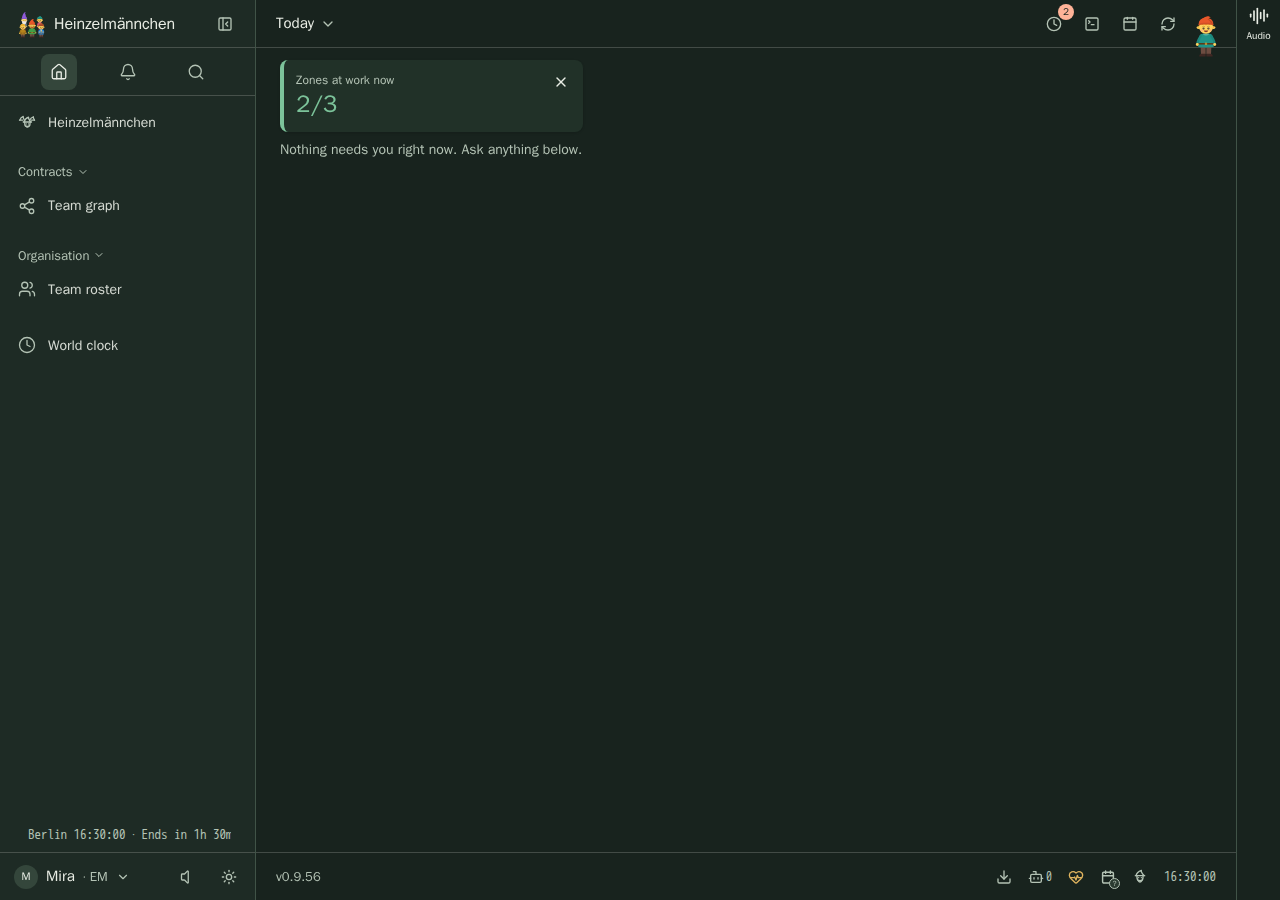
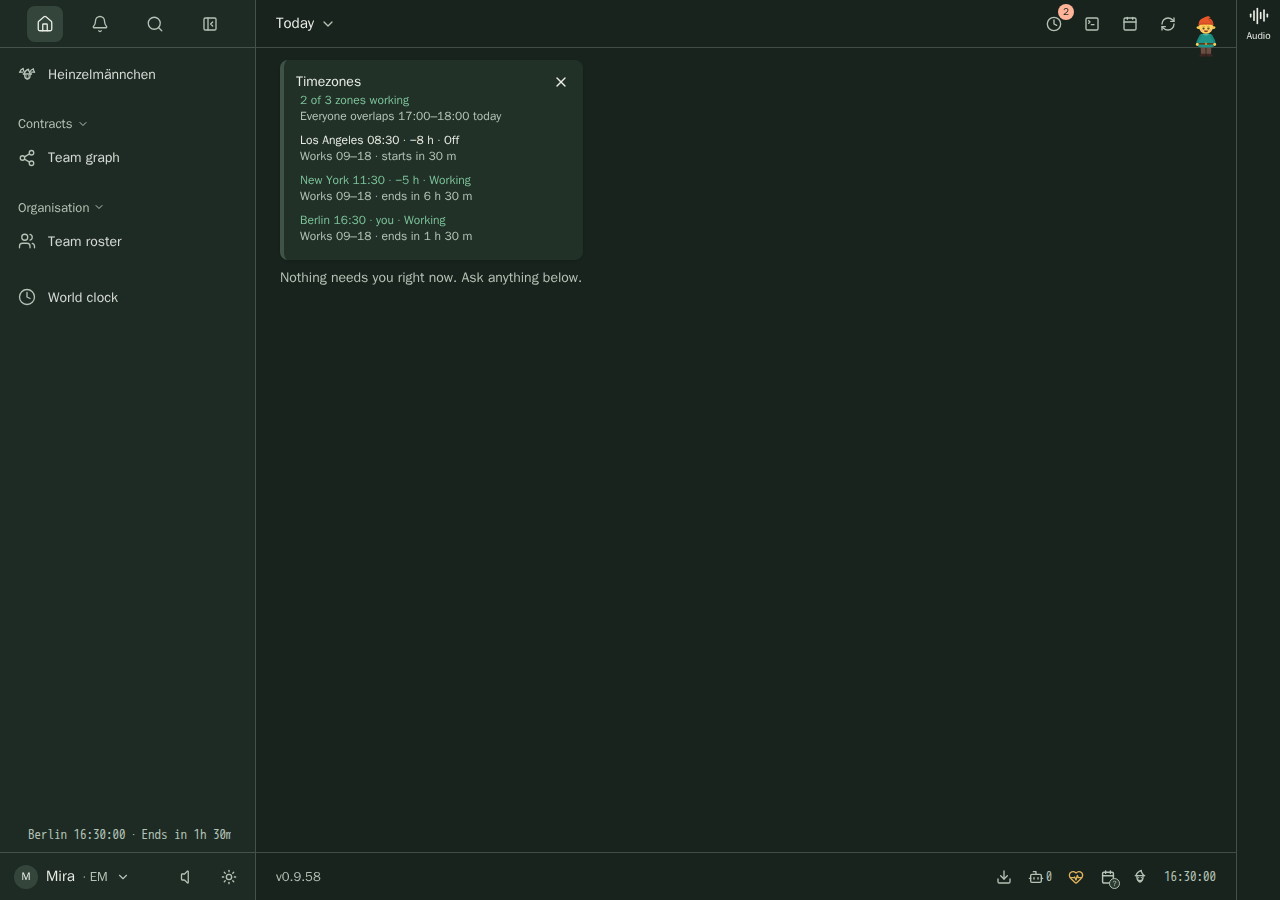
feat(clock): turn the Today widget into Timezones with common hours

diff --git a/plugins/heinzel-clock/docs/assets/screenshots/index.html b/plugins/heinzel-clock/docs/assets/screenshots/index.html
@@ -1,1 +1,1 @@
-<!doctype html><html lang="en"><meta charset="utf-8"><meta name="viewport" content="width=device-width"><title>heinzel-clock screenshots</title><style>body{font:16px/1.6 system-ui;margin:2rem;background:#faf8f3;color:#263b32}main{display:grid;grid-template-columns:repeat(auto-fit,minmax(min(100%,420px),1fr));gap:1rem}figure{margin:0;padding:1rem;background:white;border:1px solid #d8ddd3;border-radius:12px}img{width:100%;height:auto}figcaption{margin-top:.75rem}a:focus-visible{outline:3px solid #a64028}</style><h1>heinzel-clock</h1><p>Isolated demonstration profile · Core 0.9.56 · Review these captures before committing. Click an image to inspect it at full size.</p><main><figure><a href="world-clock.png"><img src="world-clock.png" alt="Find overlap across Berlin, New York and Los Angeles with the World Clock — fictional demonstration time"></a><figcaption>UI · Find overlap across Berlin, New York and Los Angeles with the World Clock — fictional demonstration time</figcaption></figure><figure><a href="team-overview.png"><img src="team-overview.png" alt="Fictional team working hours at a glance: the Today count and the primary footer clock"></a><figcaption>UI · Fictional team working hours at a glance: the Today count and the primary footer clock</figcaption></figure><figure><a href="footer-detail.png"><img src="footer-detail.png" alt="Inspect all configured time zones from the primary footer clock — fictional demonstration data"></a><figcaption>UI · Inspect all configured time zones from the primary footer clock — fictional demonstration data</figcaption></figure><figure><a href="phone-world-clock.png"><img src="phone-world-clock.png" alt="The globe and three fictional team clocks on a phone — fixed demonstration time"></a><figcaption>UI · The globe and three fictional team clocks on a phone — fixed demonstration time</figcaption></figure><figure><a href="terminal-current.png"><img src="terminal-current.png" alt="CLI: fictional demo team at 15:30 UTC: Berlin and New York are within working hours; Los Angeles starts in 30 minutes."></a><figcaption>CLI · CLI: fictional demo team at 15:30 UTC: Berlin and New York are within working hours; Los Angeles starts in 30 minutes.</figcaption></figure><figure><a href="terminal-overlap.png"><img src="terminal-overlap.png" alt="CLI preview with --at: at 16:30 UTC all three fictional demo zones are within working hours."></a><figcaption>CLI · CLI preview with --at: at 16:30 UTC all three fictional demo zones are within working hours.</figcaption></figure><figure><a href="cli-json.png"><img src="cli-json.png" alt="Structured clock data for the fictional team at the fixed demonstration time."></a><figcaption>CLI · Structured clock data for the fictional team at the fixed demonstration time.</figcaption></figure></main></html>
+<!doctype html><html lang="en"><meta charset="utf-8"><meta name="viewport" content="width=device-width"><title>heinzel-clock screenshots</title><style>body{font:16px/1.6 system-ui;margin:2rem;background:#faf8f3;color:#263b32}main{display:grid;grid-template-columns:repeat(auto-fit,minmax(min(100%,420px),1fr));gap:1rem}figure{margin:0;padding:1rem;background:white;border:1px solid #d8ddd3;border-radius:12px}img{width:100%;height:auto}figcaption{margin-top:.75rem}a:focus-visible{outline:3px solid #a64028}</style><h1>heinzel-clock</h1><p>Isolated demonstration profile · Core 0.9.58 · Review these captures before committing. Click an image to inspect it at full size.</p><main><figure><a href="world-clock.png"><img src="world-clock.png" alt="Find overlap across Berlin, New York and Los Angeles with the World Clock — fictional demonstration time"></a><figcaption>UI · Find overlap across Berlin, New York and Los Angeles with the World Clock — fictional demonstration time</figcaption></figure><figure><a href="team-overview.png"><img src="team-overview.png" alt="Fictional team working hours at a glance: the Today timezones with their common hours and the primary footer clock"></a><figcaption>UI · Fictional team working hours at a glance: the Today timezones with their common hours and the primary footer clock</figcaption></figure><figure><a href="footer-detail.png"><img src="footer-detail.png" alt="Inspect all configured time zones from the primary footer clock — fictional demonstration data"></a><figcaption>UI · Inspect all configured time zones from the primary footer clock — fictional demonstration data</figcaption></figure><figure><a href="phone-world-clock.png"><img src="phone-world-clock.png" alt="The globe and three fictional team clocks on a phone — fixed demonstration time"></a><figcaption>UI · The globe and three fictional team clocks on a phone — fixed demonstration time</figcaption></figure><figure><a href="terminal-current.png"><img src="terminal-current.png" alt="CLI: fictional demo team at 15:30 UTC: Berlin and New York are within working hours; Los Angeles starts in 30 minutes."></a><figcaption>CLI · CLI: fictional demo team at 15:30 UTC: Berlin and New York are within working hours; Los Angeles starts in 30 minutes.</figcaption></figure><figure><a href="terminal-overlap.png"><img src="terminal-overlap.png" alt="CLI preview with --at: at 16:30 UTC all three fictional demo zones are within working hours."></a><figcaption>CLI · CLI preview with --at: at 16:30 UTC all three fictional demo zones are within working hours.</figcaption></figure><figure><a href="cli-json.png"><img src="cli-json.png" alt="Structured clock data for the fictional team at the fixed demonstration time."></a><figcaption>CLI · Structured clock data for the fictional team at the fixed demonstration time.</figcaption></figure></main></html>

diff --git a/plugins/heinzel-clock/src/heinzel_clock/__init__.py b/plugins/heinzel-clock/src/heinzel_clock/__init__.py
@@ -7,7 +7,7 @@ CLI command, MCP tool, REST endpoint, configuration, validation, health reportin
 
 import warnings
 from contextlib import suppress
-from datetime import UTC, datetime
+from datetime import UTC, date, datetime, timedelta
 from pathlib import Path
 from typing import Annotated, Any, Self, cast
 from zoneinfo import ZoneInfo, available_timezones
@@ -17,8 +17,9 @@ from heinzel import (
     ConfigEditor,
     DetailLine,
     HeinzelError,
+    ListEntry,
+    ListWidget,
     LiveClock,
-    MetricWidget,
     Module,
     ModuleSettings,
     Navigate,
@@ -273,13 +274,149 @@ module.action(
 )
 
 
-@module.widget(source="clock")
-def at_work(times: list[ZoneTime]) -> MetricWidget | None:
-    """How many of the team's zones are at work now, out of all of them."""
-    if not times:
+Window = tuple[datetime, datetime]
+"""A working window in UTC: its start and its end."""
+NIGHT = (22, 6)
+"""Local hours outside work that count as night: from 22:00 to 06:00."""
+WEEK = 8
+"""How many days ahead the next common working window is looked for."""
+MAX_ROWS = 7
+"""Zone rows under the headline; more zones show six and a count of the rest."""
+PANEL = Navigate(path="/?panel=clock:world-clock")
+
+
+def _wall(zone: ZoneInfo, day: date, hour: int, *, fold: int) -> datetime:
+    """`hour` o'clock on `day` there, in UTC; 24 is the next midnight, a skipped hour starts after the gap."""
+    if hour == 24:  # noqa: PLR2004 - the end of a day
+        day, hour = day + timedelta(days=1), 0
+    return datetime(day.year, day.month, day.day, hour, tzinfo=zone, fold=fold).astimezone(UTC)
+
+
+def working_windows(zone: ZoneTime, moment: datetime) -> list[Window]:
+    """The zone's working windows, Monday to Friday local time, from the day before `moment` for a week."""
+    info = ZoneInfo(zone.zone)
+    today = moment.astimezone(info).date()
+    start, end = zone.hours
+    days = (today + timedelta(days=offset) for offset in range(-1, WEEK + 1))
+    return [
+        (_wall(info, day, start, fold=0), _wall(info, day, end, fold=1)) for day in days if day.weekday() < SATURDAY
+    ]
+
+
+def _intersect(left: list[Window], right: list[Window]) -> list[Window]:
+    return [(max(a, c), min(b, d)) for a, b in left for c, d in right if max(a, c) < min(b, d)]
+
+
+def common_hours(zones: list[ZoneTime], moment: datetime) -> Window | None:
+    """The current or next window in which every zone works, within a week; None if there is none."""
+    if not zones:
         return None
-    count = working(times)
-    return MetricWidget(label="Zones at work now", value=f"{count}/{len(times)}", tone="ok" if count else "neutral")
+    windows = working_windows(zones[0], moment)
+    for zone in zones[1:]:
+        windows = _intersect(windows, working_windows(zone, moment))
+    return next((window for window in sorted(windows) if window[1] > moment), None)
+
+
+def _span(start: datetime, end: datetime) -> str:
+    """`2 h 30 m` from `start` to `end`, rounded up to the minute."""
+    hours, minutes = divmod(-((start - end) // timedelta(minutes=1)), 60)
+    return " ".join(
+        part for part in (f"{hours} h" if hours else "", f"{minutes} m" if minutes or not hours else "") if part
+    )
+
+
+def _offset(zone: ZoneInfo, you: ZoneInfo, moment: datetime) -> str:
+    """How far the zone's clock is ahead of yours, with a minus sign when behind: `+6 h`, `+4:30 h`."""
+    difference = (moment.astimezone(zone).utcoffset() or timedelta()) - (
+        moment.astimezone(you).utcoffset() or timedelta()
+    )
+    minutes = int(difference.total_seconds()) // 60
+    sign = "+" if minutes > 0 else "\u2212" if minutes < 0 else "±"
+    hours, rest = divmod(abs(minutes), 60)
+    return f"{sign}{hours}:{rest:02d} h" if rest else f"{sign}{hours} h"
+
+
+def _when(moment: datetime, at: datetime, you: ZoneInfo) -> str:
+    """`in 2 h` within a day, otherwise the weekday and your local time: `Mon 09:00`."""
+    if at - moment < timedelta(days=1):
+        return f"in {_span(moment, at)}"
+    return at.astimezone(you).strftime("%a %H:%M")
+
+
+def _row(zone: ZoneTime, moment: datetime, you: ZoneInfo, *, primary: bool) -> ListEntry:
+    info = ZoneInfo(zone.zone)
+    local = moment.astimezone(info)
+    windows = working_windows(zone, moment)
+    active = next((window for window in windows if window[0] <= moment < window[1]), None)
+    if active:
+        state, plan = "Working", f"ends {_when(moment, active[1], you)}"
+    else:
+        night = local.hour >= NIGHT[0] or local.hour < NIGHT[1]
+        upcoming = next(start for start, _ in windows if start > moment)
+        state, plan = "Night" if night else "Off", f"starts {_when(moment, upcoming, you)}"
+    same_day = local.date() == moment.astimezone(you).date()
+    clock = local.strftime("%H:%M" if same_day else "%a %H:%M")
+    relation = "you" if primary else _offset(info, you, moment)
+    return ListEntry(
+        text=f"{city(zone.zone)} {clock} · {relation} · {state}",
+        detail=f"Works {zone.hours[0]:02d}\u2013{zone.hours[1]:02d} · {plan}",
+        tone="ok" if active else "neutral",
+        effect=PANEL,
+    )
+
+
+def _headline(zones: list[ZoneTime], moment: datetime, you: ZoneInfo) -> ListEntry:
+    rows = [_row(zone, moment, you, primary=False) for zone in zones]
+    count = sum(row.tone == "ok" for row in rows)
+    noun = "zone" if len(zones) == 1 else "zones"
+    who = "Everyone" if len(zones) > 1 else None
+    window = common_hours(zones, moment)
+    today = moment.astimezone(you).date()
+    if window and window[0] <= moment:
+        until = window[1].astimezone(you).strftime("%H:%M")
+        detail = f"{who} works until {until}" if who else f"Works until {until}"
+    elif window:
+        start, end = (edge.astimezone(you) for edge in window)
+        hours = f"{start:%H:%M}\u2013{end:%H:%M}"
+        if start.date() == today:
+            detail = f"{who} overlaps {hours} today" if who else f"Works {hours} today"
+        else:
+            detail = f"No common hours today; next {start:%a} {hours}"
+    else:
+        starts = [(start, zone) for zone in zones for start, _ in working_windows(zone, moment) if start > moment]
+        start, first = min(starts, key=lambda pair: pair[0])
+        detail = f"No common working hours; {city(first.zone)} starts {_when(moment, start, you)}"
+    return ListEntry(
+        text=f"{count} of {len(zones)} {noun} working", detail=detail, tone="ok" if count else "neutral", effect=PANEL
+    )
+
+
+def timezones(times: list[ZoneTime], moment: datetime) -> ListWidget:
+    """Who works now, when everyone overlaps, and one row per zone sorted by its UTC offset."""
+    zones = list({zone.zone: zone for zone in reversed(times)}.values())[::-1]
+    if not zones:
+        return ListWidget(
+            title="Timezones",
+            items=[
+                ListEntry(text="No time zones yet", detail="Add your team's zones in the World clock", effect=PANEL)
+            ],
+        )
+    you = ZoneInfo(zones[0].zone)
+    order = sorted(
+        range(len(zones)),
+        key=lambda index: (moment.astimezone(ZoneInfo(zones[index].zone)).utcoffset() or timedelta(), index),
+    )
+    rows = [_row(zones[index], moment, you, primary=index == 0) for index in order]
+    if len(rows) > MAX_ROWS:
+        rest = len(rows) - MAX_ROWS + 1
+        rows = [*rows[: MAX_ROWS - 1], ListEntry(text=f"+{rest} more zones in the World clock", effect=PANEL)]
+    return ListWidget(title="Timezones", items=[_headline(zones, moment, you), *rows])
+
+
+@module.widget(source="clock")
+def at_work(times: list[ZoneTime]) -> ListWidget:
+    """The Today widget "Timezones": who works now, the next common hours and every zone's time."""
+    return timezones(times, _now())
 
 
 @module.health

diff --git a/plugins/heinzel-clock/tests/timezones_test.py b/plugins/heinzel-clock/tests/timezones_test.py
@@ -1,0 +1,120 @@
+from datetime import UTC, datetime
+
+import pytest
+from heinzel import ListEntry, ListWidget, Navigate
+
+from heinzel_clock import ZoneTime, common_hours, timezones, working_windows
+
+pytestmark = pytest.mark.unit
+
+PANEL = Navigate(path="/?panel=clock:world-clock")
+TEAM = [
+    ZoneTime(zone="Europe/Berlin", time="", hours=(9, 18), working=False, primary=True),
+    ZoneTime(zone="America/New_York", time="", hours=(9, 18), working=False),
+    ZoneTime(zone="America/Los_Angeles", time="", hours=(9, 18), working=False),
+]
+
+
+def at(text: str) -> datetime:
+    return datetime.fromisoformat(text).astimezone(UTC)
+
+
+def lines(widget: ListWidget) -> list[tuple[str, str | None]]:
+    return [(item.text, item.detail) for item in widget.items]
+
+
+def test_the_widget_is_titled_timezones_and_says_who_works_and_when_everyone_overlaps():
+    widget = timezones(TEAM, at("2026-10-26T15:30:00Z"))
+    assert widget.title == "Timezones"
+    assert lines(widget) == [
+        ("2 of 3 zones working", "Everyone overlaps 17:00\u201318:00 today"),
+        ("Los Angeles 08:30 · \u22128 h · Off", "Works 09\u201318 · starts in 30 m"),
+        ("New York 11:30 · \u22125 h · Working", "Works 09\u201318 · ends in 6 h 30 m"),
+        ("Berlin 16:30 · you · Working", "Works 09\u201318 · ends in 1 h 30 m"),
+    ]
+    assert [item.tone for item in widget.items] == ["ok", "neutral", "ok", "ok"]
+    assert all(item.effect == PANEL for item in widget.items)
+
+
+def test_the_headline_says_until_when_everyone_works_while_they_overlap():
+    widget = timezones(TEAM, at("2026-10-26T16:15:00Z"))
+    assert lines(widget)[0] == ("3 of 3 zones working", "Everyone works until 18:00")
+
+
+def test_the_overlap_follows_each_zones_daylight_saving_time():
+    pair = TEAM[:2]
+    summer = common_hours(pair, at("2026-10-27T06:00:00Z"))
+    winter = common_hours(pair, at("2026-11-03T06:00:00Z"))
+    assert summer == (at("2026-10-27T13:00:00Z"), at("2026-10-27T17:00:00Z"))
+    assert winter == (at("2026-11-03T14:00:00Z"), at("2026-11-03T17:00:00Z"))
+    assert lines(timezones(pair, at("2026-11-03T06:00:00Z")))[0] == (
+        "0 of 2 zones working",
+        "Everyone overlaps 15:00\u201318:00 today",
+    )
+
+
+def test_a_working_day_that_starts_in_a_skipped_hour_starts_after_the_gap():
+    cairo = ZoneTime(zone="Africa/Cairo", time="", hours=(0, 6), working=False)
+    windows = working_windows(cairo, at("2026-04-23T12:00:00Z"))
+    assert (at("2026-04-23T22:00:00Z"), at("2026-04-24T03:00:00Z")) in windows
+
+
+def test_the_weekend_is_off_and_the_next_overlap_names_its_day():
+    widget = timezones(TEAM[:2], at("2026-10-31T12:00:00Z"))
+    assert lines(widget) == [
+        ("0 of 2 zones working", "No common hours today; next Mon 15:00\u201318:00"),
+        ("New York 08:00 · \u22125 h · Off", "Works 09\u201318 · starts Mon 15:00"),
+        ("Berlin 13:00 · you · Off", "Works 09\u201318 · starts Mon 09:00"),
+    ]
+
+
+def test_without_any_overlap_this_week_the_headline_names_the_next_start():
+    widget = timezones(TEAM, at("2026-11-02T06:00:00Z"))
+    assert common_hours(TEAM, at("2026-11-02T06:00:00Z")) is None
+    assert lines(widget)[0] == ("0 of 3 zones working", "No common working hours; Berlin starts in 2 h")
+
+
+def test_across_the_date_line_the_weekday_differs_and_the_weekend_comes_first():
+    pair = [
+        ZoneTime(zone="Pacific/Honolulu", time="", hours=(9, 18), working=False, primary=True),
+        ZoneTime(zone="Pacific/Kiritimati", time="", hours=(9, 18), working=False),
+    ]
+    widget = timezones(pair, at("2026-10-30T10:00:00-10:00"))
+    assert lines(widget) == [
+        ("1 of 2 zones working", "No common hours today; next Mon 09:00\u201318:00"),
+        ("Honolulu 10:00 · you · Working", "Works 09\u201318 · ends in 8 h"),
+        ("Kiritimati Sat 10:00 · +24 h · Off", "Works 09\u201318 · starts Sun 09:00"),
+    ]
+
+
+def test_night_is_its_own_state_and_partial_hour_offsets_show_minutes():
+    pair = [TEAM[0], ZoneTime(zone="Asia/Kolkata", time="", hours=(10, 19), working=False)]
+    widget = timezones(pair, at("2026-10-26T19:00:00Z"))
+    assert lines(widget)[1:] == [
+        ("Berlin 20:00 · you · Off", "Works 09\u201318 · starts in 13 h"),
+        ("Kolkata Tue 00:30 · +4:30 h · Night", "Works 10\u201319 · starts in 9 h 30 m"),
+    ]
+
+
+def test_one_zone_speaks_of_its_own_hours():
+    widget = timezones(TEAM[:1], at("2026-10-26T07:00:00Z"))
+    assert lines(widget)[0] == ("0 of 1 zone working", "Works 09:00\u201318:00 today")
+
+
+def test_many_zones_fit_the_list_with_a_count_of_the_rest():
+    names = ["UTC", "Asia/Tokyo", "Asia/Dubai", "Europe/Paris", "Europe/Lisbon", "America/Chicago", "Asia/Seoul"]
+    team = [TEAM[0], *(ZoneTime(zone=name, time="", hours=(9, 18), working=False) for name in names)]
+    widget = timezones(team, at("2026-10-26T10:00:00Z"))
+    assert len(widget.items) == 8
+    assert widget.items[-1] == ListEntry(text="+2 more zones in the World clock", effect=PANEL)
+
+
+def test_a_zone_configured_twice_shows_once():
+    assert len(timezones([TEAM[0], TEAM[0]], at("2026-10-26T10:00:00Z")).items) == 2
+
+
+def test_without_zones_the_widget_says_how_to_add_them():
+    widget = timezones([], at("2026-10-26T10:00:00Z"))
+    assert widget.items == [
+        ListEntry(text="No time zones yet", detail="Add your team's zones in the World clock", effect=PANEL)
+    ]

diff --git a/plugins/heinzel-clock/tests/clock_test.py b/plugins/heinzel-clock/tests/clock_test.py
@@ -1,7 +1,7 @@
 import tomllib
 
 import pytest
-from heinzel import LiveClock, MetricWidget, Navigate
+from heinzel import LiveClock, Navigate
 from heinzel.kernel import user_config_dir
 from pydantic import ValidationError
 
@@ -211,10 +211,16 @@ def test_the_status_item_ticks_in_the_primary_zone_and_lists_the_others():
     assert primary_zone([]) is None
 
 
-def test_the_widget_and_the_badge_count_the_zones_at_work():
+def test_the_badge_counts_the_zones_at_work_and_the_widget_shows_them_now(monkeypatch):
+    from datetime import UTC, datetime
+
+    import heinzel_clock
+
     assert working(TIMES) == 2
-    assert at_work(TIMES) == MetricWidget(label="Zones at work now", value="2/3", tone="ok")
-    assert at_work([]) is None
+    moment = datetime(2026, 10, 26, 15, 30, tzinfo=UTC)
+    monkeypatch.setattr(heinzel_clock, "_now", lambda: moment)
+    assert at_work(TIMES) == heinzel_clock.timezones(TIMES, moment)
+    assert at_work(TIMES).title == "Timezones"
 
 
 def test_the_web_app_gets_the_clock_in_the_footer_not_the_sidebar_until_asked(hz, monkeypatch):
@@ -238,7 +244,7 @@ def test_the_header_action_opens_the_existing_world_clock_panel(hz):
     assert action["effect"] == {"kind": "navigate", "path": "/?panel=clock:world-clock"}
     assert isinstance(action["badge"], int)
     (widget,) = hz("system", "ui", "widgets", "--item", "clock:at-work").json
-    assert widget["widget"]["kind"] == "metric"
+    assert (widget["widget"]["kind"], widget["widget"]["title"]) == ("list", "Timezones")
 
 
 def test_an_unknown_zone_is_a_problem_of_the_item_not_of_the_bar(hz, monkeypatch):

diff --git a/plugins/heinzel-clock/README.md b/plugins/heinzel-clock/README.md
@@ -36,9 +36,9 @@ license notices are packaged alongside the built view.
 
 Find overlap across Berlin, New York and Los Angeles with the World Clock — fictional demonstration time
 
-<img src="docs/assets/screenshots/team-overview.png" alt="Fictional team working hours at a glance: the Today count and the primary footer clock" width="960">
+<img src="docs/assets/screenshots/team-overview.png" alt="Fictional team working hours at a glance: the Today timezones with their common hours and the primary footer clock" width="960">
 
-Fictional team working hours at a glance: the Today count and the primary footer clock
+Fictional team working hours at a glance: the Today timezones with their common hours and the primary footer clock
 
 <img src="docs/assets/screenshots/footer-detail.png" alt="Inspect all configured time zones from the primary footer clock — fictional demonstration data" width="960">
 

diff --git a/plugins/heinzel-clock/CHANGELOG.md b/plugins/heinzel-clock/CHANGELOG.md
@@ -1,5 +1,9 @@
 # Changelog
 
+## 0.9.13
+
+Rename the Today widget "Zones at work now" to "Timezones" and make it useful: a headline with how many zones work now and when everyone overlaps next (or which zone starts next), then one row per zone sorted by UTC offset with its local time, the weekday when it differs from yours, its offset from you and a Working, Off or Night state in words. Weekends, daylight saving time and the date line are taken into account.
+
 ## 0.9.12
 
 Package the World Clock view once when building a wheel from a source snapshot.
